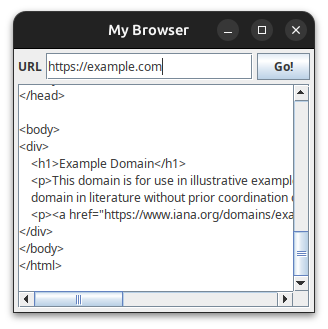
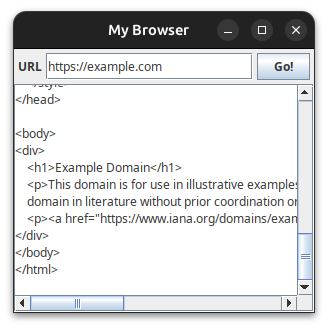
demo code simplified, excessive gap removed

Changed region(s): [[0.0305, 0.2432, 0.9756, 0.9422]]

diff --git a/demo/simple-kotlin-dsl/src/main/kotlin/MyBrowserKotlin.kt b/demo/simple-kotlin-dsl/src/main/kotlin/MyBrowserKotlin.kt
@@ -26,6 +26,8 @@ import java.awt.Dimension
 import java.net.URI
 
 fun main() = MainWindow("My Browser") { window ->
+  window.preferredSize = Dimension(300, 300)
+
   val urlBox = TextField()
   val goButton = Button("Go!") { isEnabled = false }
   val contentBox = TextArea()
@@ -55,27 +57,17 @@ fun main() = MainWindow("My Browser") { window ->
       goButton.isEnabled = true
     }
 
-  window.preferredSize = Dimension(300, 300)
-
-  Border.empty(4) {
-    BorderPanel {
-      layout {
-        hgap = 4
-        vgap = 4
-      }
-      north {
+  BorderPanel {
+    north {
+      Border.empty(4) {
         BorderPanel {
-          layout {
-            hgap = 4
-            vgap = 4
-          }
+          layout { gap = 4 }
           west { Label("URL") }
           center { urlBox }
           east { goButton }
         }
       }
-      center { ScrollPane { contentBox } }
     }
+    center { ScrollPane { contentBox } }
   }
-
 }

diff --git a/demo/mvp-implementation/src/main/kotlin/MvpBrowserView.kt b/demo/mvp-implementation/src/main/kotlin/MvpBrowserView.kt
@@ -45,26 +45,19 @@ class SwingBrowserView : BrowserView {
     get() = urlField.text
     set(value) { urlField.text = value }
 
-  val swingComponent = Border.empty(4) {
-    BorderPanel {
-      layout {
-        hgap = 4
-        vgap = 4
-      }
-      north {
+  val swingComponent = BorderPanel {
+    north {
+      Border.empty(4) {
         BorderPanel {
-          layout {
-            hgap = 4
-            vgap = 4
-          }
+          layout { gap = 4 }
           west { Label("URL") }
           center { urlField }
           east { goAction }
         }
       }
-      center {
-        ScrollPane { contentBox }
-      }
+    }
+    center {
+      ScrollPane { contentBox }
     }
   }
 

diff --git a/demo/mvp-implementation/src/main/kotlin/MvpMultiBrowserApp.kt b/demo/mvp-implementation/src/main/kotlin/MvpMultiBrowserApp.kt
@@ -20,13 +20,15 @@
 package com.xemantic.kotlin.swing.demo.mvp
 
 import com.xemantic.kotlin.swing.*
+import java.awt.Dimension
 
 fun main() = MainWindow("Browser spawner") {
   val internet = DefaultInternet()
   val newBrowserButton = Button("New browser")
   var browserCounter = 1
   newBrowserButton.actionEvents.listen {
-    frame("Browser ${browserCounter++}") {
+    frame("Browser ${browserCounter++}") { window ->
+      window.preferredSize = Dimension(300, 300)
       val view = SwingBrowserView()
       BrowserPresenter(view, scope, internet)
       view.swingComponent

diff --git a/xemantic-kotlin-swing-dsl-core/src/main/kotlin/Panels.kt b/xemantic-kotlin-swing-dsl-core/src/main/kotlin/Panels.kt
@@ -126,3 +126,10 @@ class PanelBuilder<L : LayoutManager>(
   }
 
 }
+
+var BorderLayout.gap
+  get() = vgap
+  set(value) {
+    vgap = value
+    hgap = value
+  }

diff --git a/README.md b/README.md
@@ -62,6 +62,8 @@ import java.awt.Dimension
 import java.net.URI
 
 fun main() = MainWindow("My Browser") { window ->
+  window.preferredSize = Dimension(300, 300)
+
   val urlBox = TextField()
   val goButton = Button("Go!") { isEnabled = false }
   val contentBox = TextArea()
@@ -91,16 +93,11 @@ fun main() = MainWindow("My Browser") { window ->
       goButton.isEnabled = true
     }
 
-  window.preferredSize = Dimension(300, 300)
-
   BorderPanel {
     north {
       Border.empty(4) {
         BorderPanel {
-          layout {
-            hgap = 4
-            vgap = 4
-          }
+          layout { gap = 4 }
           west { Label("URL") }
           center { urlBox }
           east { goButton }
